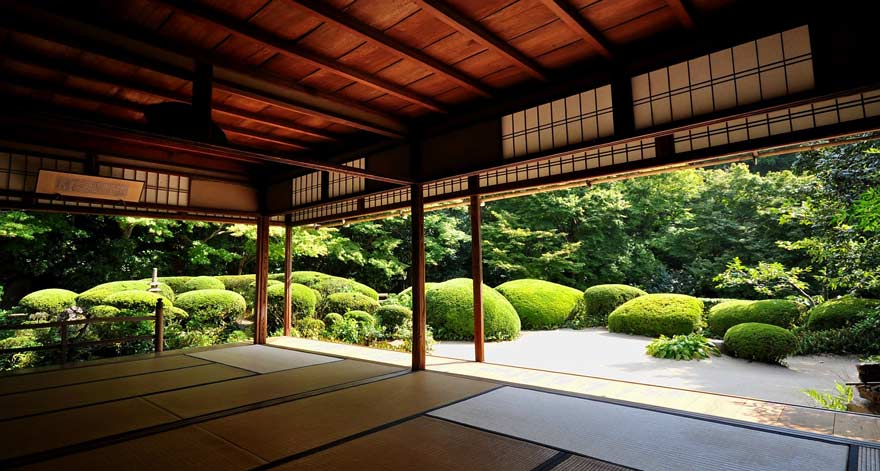
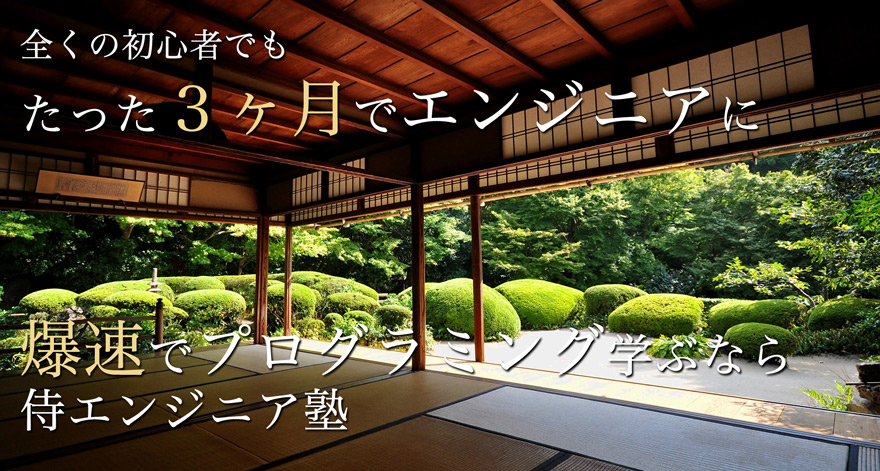
Add header in lesson_lp

diff --git a/app/assets/stylesheets/lesson.css b/app/assets/stylesheets/lesson.css
@@ -42,8 +42,13 @@ footer img {
 }
 
 header {
-  margin: 80px auto;
-  background: url(lesson/header.jpg);
+  background: url(lesson/header_bg.jpg);
+  text-align: center;
+  background-position: bottom;
+}
+
+header img {
+  margin: 120px auto;
   width: 880px;
   height: 471px;
   -moz-box-shadow: 1px 1px 3px #000;
